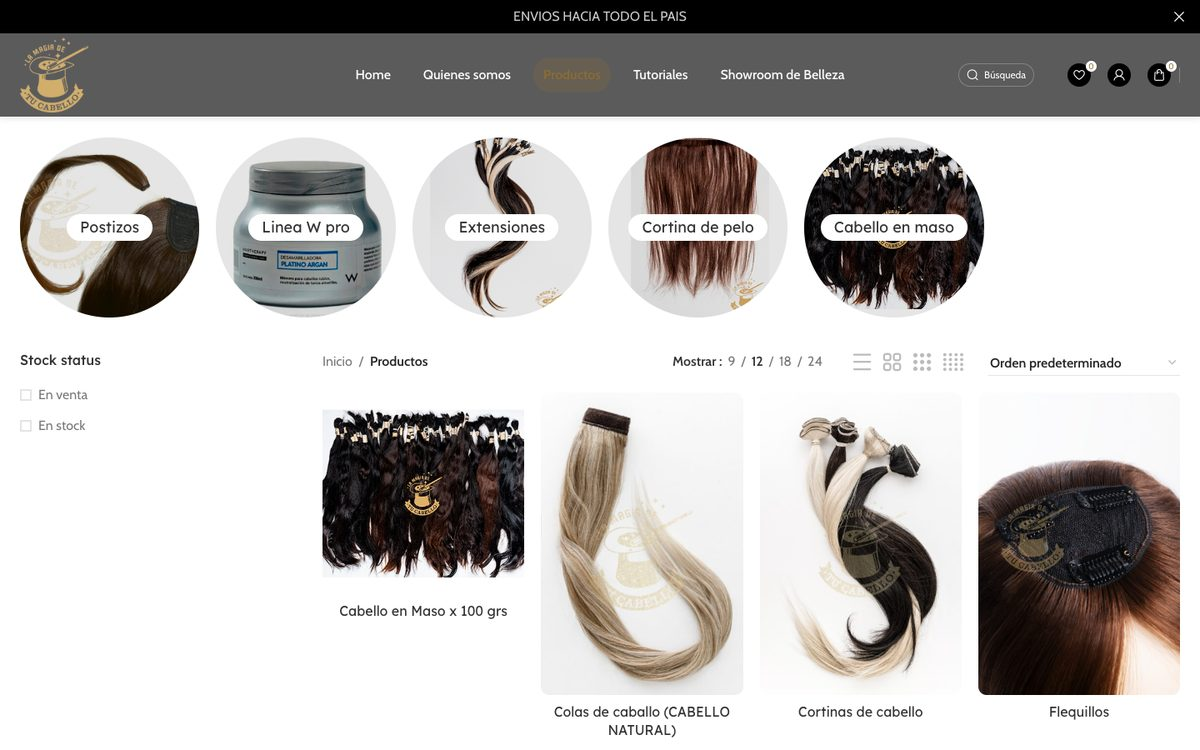
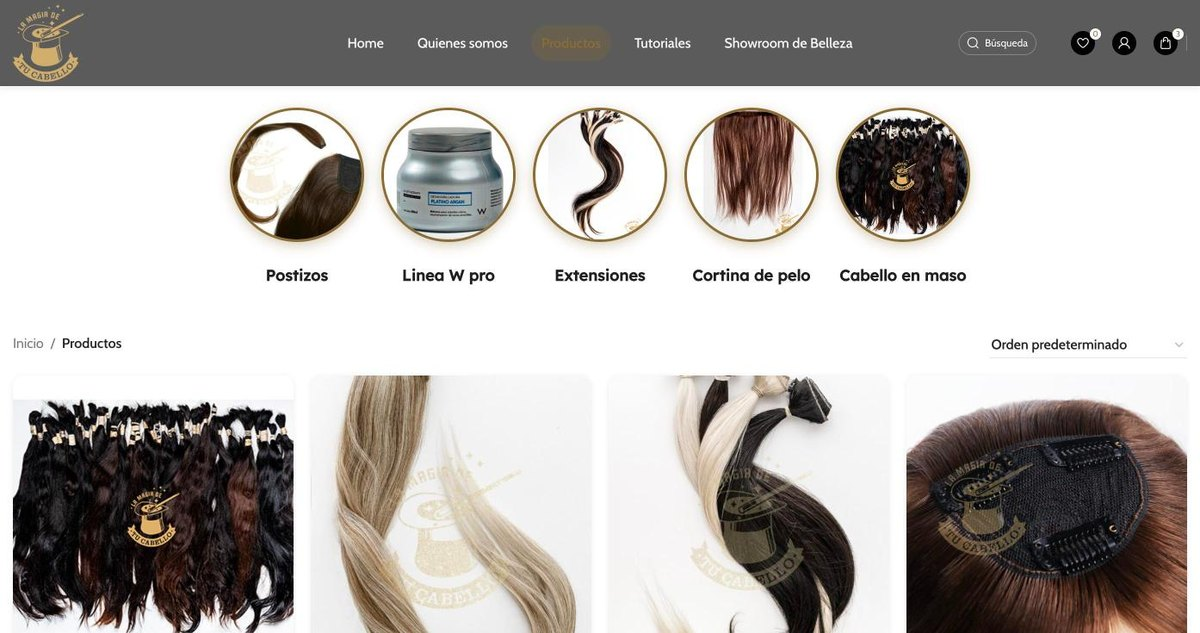
Caso La Magia: captura nueva; footer con Casos y sin subcategorias de tienda; publicar.py con --solo y --ver

diff --git a/caso-la-magia-de-tu-cabello.html b/caso-la-magia-de-tu-cabello.html
@@ -632,7 +632,7 @@
   <span class="sc-caso-mk-url"></span>
   </div>
   <div class="sc-caso-mk-pantalla es-captura">
-  <img src="assets/images/casos/magia-de-tu-cabello-escritorio.jpg" width="1200" height="750" alt="" decoding="async">
+  <img src="assets/images/casos/magia-de-tu-cabello-escritorio.jpg?v=2" width="1200" height="633" alt="" decoding="async">
   </div>
   </div>
   <span class="sc-caso-mk-base" aria-hidden="true"></span>
@@ -987,9 +987,6 @@
                     <ul>
                       <li><a href="servicio-desarrollo-web.html"><span>Desarrollo Web</span></a></li>
                       <li><a href="servicio-tiendas-online.html"><span>Tiendas Online</span></a></li>
-                      <li><a href="servicio-tiendanube.html"><span>Tiendas en Tiendanube</span></a></li>
-                      <li><a href="servicio-shopify.html"><span>Tiendas en Shopify</span></a></li>
-                      <li><a href="servicio-woocommerce.html"><span>Tiendas en WooCommerce</span></a></li>
                       <li><a href="servicio-seo-tecnico.html"><span>SEO Técnico</span></a></li>
                       <li><a href="servicio-campanas-ads.html"><span>Campañas de Ads</span></a></li>
                       <li><a href="servicio-automatizacion-leads.html"><span>Automatización de Leads</span></a></li>
@@ -1001,6 +998,7 @@
                     <ul>
                       <li><a href="sobre-nosotros.html"><span>Sobre Nosotros</span></a></li>
                       <li><a href="preguntas-frecuentes.html"><span>Preguntas Frecuentes</span></a></li>
+                      <li><a href="trabajos.html"><span>Casos</span></a></li>
                       <li><a href="planes.html"><span>Planes</span></a></li>
                       <li><a href="contacto.html"><span>Contacto</span></a></li>
                     </ul>

diff --git a/caso-marker-webflow.html b/caso-marker-webflow.html
@@ -1033,9 +1033,6 @@
                     <ul>
                       <li><a href="servicio-desarrollo-web.html"><span>Desarrollo Web</span></a></li>
                       <li><a href="servicio-tiendas-online.html"><span>Tiendas Online</span></a></li>
-                      <li><a href="servicio-tiendanube.html"><span>Tiendas en Tiendanube</span></a></li>
-                      <li><a href="servicio-shopify.html"><span>Tiendas en Shopify</span></a></li>
-                      <li><a href="servicio-woocommerce.html"><span>Tiendas en WooCommerce</span></a></li>
                       <li><a href="servicio-seo-tecnico.html"><span>SEO Técnico</span></a></li>
                       <li><a href="servicio-campanas-ads.html"><span>Campañas de Ads</span></a></li>
                       <li><a href="servicio-automatizacion-leads.html"><span>Automatización de Leads</span></a></li>
@@ -1047,6 +1044,7 @@
                     <ul>
                       <li><a href="sobre-nosotros.html"><span>Sobre Nosotros</span></a></li>
                       <li><a href="preguntas-frecuentes.html"><span>Preguntas Frecuentes</span></a></li>
+                      <li><a href="trabajos.html"><span>Casos</span></a></li>
                       <li><a href="planes.html"><span>Planes</span></a></li>
                       <li><a href="contacto.html"><span>Contacto</span></a></li>
                     </ul>

diff --git a/caso-reparto-de-consultas.html b/caso-reparto-de-consultas.html
@@ -1016,9 +1016,6 @@
                     <ul>
                       <li><a href="servicio-desarrollo-web.html"><span>Desarrollo Web</span></a></li>
                       <li><a href="servicio-tiendas-online.html"><span>Tiendas Online</span></a></li>
-                      <li><a href="servicio-tiendanube.html"><span>Tiendas en Tiendanube</span></a></li>
-                      <li><a href="servicio-shopify.html"><span>Tiendas en Shopify</span></a></li>
-                      <li><a href="servicio-woocommerce.html"><span>Tiendas en WooCommerce</span></a></li>
                       <li><a href="servicio-seo-tecnico.html"><span>SEO Técnico</span></a></li>
                       <li><a href="servicio-campanas-ads.html"><span>Campañas de Ads</span></a></li>
                       <li><a href="servicio-automatizacion-leads.html"><span>Automatización de Leads</span></a></li>
@@ -1030,6 +1027,7 @@
                     <ul>
                       <li><a href="sobre-nosotros.html"><span>Sobre Nosotros</span></a></li>
                       <li><a href="preguntas-frecuentes.html"><span>Preguntas Frecuentes</span></a></li>
+                      <li><a href="trabajos.html"><span>Casos</span></a></li>
                       <li><a href="planes.html"><span>Planes</span></a></li>
                       <li><a href="contacto.html"><span>Contacto</span></a></li>
                     </ul>

diff --git a/caso-retail-rubro-restringido.html b/caso-retail-rubro-restringido.html
@@ -1038,9 +1038,6 @@
                     <ul>
                       <li><a href="servicio-desarrollo-web.html"><span>Desarrollo Web</span></a></li>
                       <li><a href="servicio-tiendas-online.html"><span>Tiendas Online</span></a></li>
-                      <li><a href="servicio-tiendanube.html"><span>Tiendas en Tiendanube</span></a></li>
-                      <li><a href="servicio-shopify.html"><span>Tiendas en Shopify</span></a></li>
-                      <li><a href="servicio-woocommerce.html"><span>Tiendas en WooCommerce</span></a></li>
                       <li><a href="servicio-seo-tecnico.html"><span>SEO Técnico</span></a></li>
                       <li><a href="servicio-campanas-ads.html"><span>Campañas de Ads</span></a></li>
                       <li><a href="servicio-automatizacion-leads.html"><span>Automatización de Leads</span></a></li>
@@ -1052,6 +1049,7 @@
                     <ul>
                       <li><a href="sobre-nosotros.html"><span>Sobre Nosotros</span></a></li>
                       <li><a href="preguntas-frecuentes.html"><span>Preguntas Frecuentes</span></a></li>
+                      <li><a href="trabajos.html"><span>Casos</span></a></li>
                       <li><a href="planes.html"><span>Planes</span></a></li>
                       <li><a href="contacto.html"><span>Contacto</span></a></li>
                     </ul>

diff --git a/caso-tienda-a-medida.html b/caso-tienda-a-medida.html
@@ -1008,9 +1008,6 @@
                     <ul>
                       <li><a href="servicio-desarrollo-web.html"><span>Desarrollo Web</span></a></li>
                       <li><a href="servicio-tiendas-online.html"><span>Tiendas Online</span></a></li>
-                      <li><a href="servicio-tiendanube.html"><span>Tiendas en Tiendanube</span></a></li>
-                      <li><a href="servicio-shopify.html"><span>Tiendas en Shopify</span></a></li>
-                      <li><a href="servicio-woocommerce.html"><span>Tiendas en WooCommerce</span></a></li>
                       <li><a href="servicio-seo-tecnico.html"><span>SEO Técnico</span></a></li>
                       <li><a href="servicio-campanas-ads.html"><span>Campañas de Ads</span></a></li>
                       <li><a href="servicio-automatizacion-leads.html"><span>Automatización de Leads</span></a></li>
@@ -1022,6 +1019,7 @@
                     <ul>
                       <li><a href="sobre-nosotros.html"><span>Sobre Nosotros</span></a></li>
                       <li><a href="preguntas-frecuentes.html"><span>Preguntas Frecuentes</span></a></li>
+                      <li><a href="trabajos.html"><span>Casos</span></a></li>
                       <li><a href="planes.html"><span>Planes</span></a></li>
                       <li><a href="contacto.html"><span>Contacto</span></a></li>
                     </ul>

diff --git a/servicio-automatizacion-leads.html b/servicio-automatizacion-leads.html
@@ -1100,9 +1100,6 @@
                     <ul>
                       <li><a href="servicio-desarrollo-web.html"><span>Desarrollo Web</span></a></li>
                       <li><a href="servicio-tiendas-online.html"><span>Tiendas Online</span></a></li>
-                      <li><a href="servicio-tiendanube.html"><span>Tiendas en Tiendanube</span></a></li>
-                      <li><a href="servicio-shopify.html"><span>Tiendas en Shopify</span></a></li>
-                      <li><a href="servicio-woocommerce.html"><span>Tiendas en WooCommerce</span></a></li>
                       <li><a href="servicio-seo-tecnico.html"><span>SEO Técnico</span></a></li>
                       <li><a href="servicio-campanas-ads.html"><span>Campañas de Ads</span></a></li>
                       <li><a href="servicio-automatizacion-leads.html"><span>Automatización de Leads</span></a></li>
@@ -1114,6 +1111,7 @@
                     <ul>
                       <li><a href="sobre-nosotros.html"><span>Sobre Nosotros</span></a></li>
                       <li><a href="preguntas-frecuentes.html"><span>Preguntas Frecuentes</span></a></li>
+                      <li><a href="trabajos.html"><span>Casos</span></a></li>
                       <li><a href="planes.html"><span>Planes</span></a></li>
                       <li><a href="contacto.html"><span>Contacto</span></a></li>
                     </ul>

diff --git a/servicio-campanas-ads.html b/servicio-campanas-ads.html
@@ -1068,9 +1068,6 @@
                     <ul>
                       <li><a href="servicio-desarrollo-web.html"><span>Desarrollo Web</span></a></li>
                       <li><a href="servicio-tiendas-online.html"><span>Tiendas Online</span></a></li>
-                      <li><a href="servicio-tiendanube.html"><span>Tiendas en Tiendanube</span></a></li>
-                      <li><a href="servicio-shopify.html"><span>Tiendas en Shopify</span></a></li>
-                      <li><a href="servicio-woocommerce.html"><span>Tiendas en WooCommerce</span></a></li>
                       <li><a href="servicio-seo-tecnico.html"><span>SEO Técnico</span></a></li>
                       <li><a href="servicio-campanas-ads.html"><span>Campañas de Ads</span></a></li>
                       <li><a href="servicio-automatizacion-leads.html"><span>Automatización de Leads</span></a></li>
@@ -1082,6 +1079,7 @@
                     <ul>
                       <li><a href="sobre-nosotros.html"><span>Sobre Nosotros</span></a></li>
                       <li><a href="preguntas-frecuentes.html"><span>Preguntas Frecuentes</span></a></li>
+                      <li><a href="trabajos.html"><span>Casos</span></a></li>
                       <li><a href="planes.html"><span>Planes</span></a></li>
                       <li><a href="contacto.html"><span>Contacto</span></a></li>
                     </ul>

diff --git a/servicio-cierre-de-ventas.html b/servicio-cierre-de-ventas.html
@@ -1085,9 +1085,6 @@
                     <ul>
                       <li><a href="servicio-desarrollo-web.html"><span>Desarrollo Web</span></a></li>
                       <li><a href="servicio-tiendas-online.html"><span>Tiendas Online</span></a></li>
-                      <li><a href="servicio-tiendanube.html"><span>Tiendas en Tiendanube</span></a></li>
-                      <li><a href="servicio-shopify.html"><span>Tiendas en Shopify</span></a></li>
-                      <li><a href="servicio-woocommerce.html"><span>Tiendas en WooCommerce</span></a></li>
                       <li><a href="servicio-seo-tecnico.html"><span>SEO Técnico</span></a></li>
                       <li><a href="servicio-campanas-ads.html"><span>Campañas de Ads</span></a></li>
                       <li><a href="servicio-automatizacion-leads.html"><span>Automatización de Leads</span></a></li>
@@ -1099,6 +1096,7 @@
                     <ul>
                       <li><a href="sobre-nosotros.html"><span>Sobre Nosotros</span></a></li>
                       <li><a href="preguntas-frecuentes.html"><span>Preguntas Frecuentes</span></a></li>
+                      <li><a href="trabajos.html"><span>Casos</span></a></li>
                       <li><a href="planes.html"><span>Planes</span></a></li>
                       <li><a href="contacto.html"><span>Contacto</span></a></li>
                     </ul>

diff --git a/servicio-desarrollo-web.html b/servicio-desarrollo-web.html
@@ -1103,9 +1103,6 @@
                     <ul>
                       <li><a href="servicio-desarrollo-web.html"><span>Desarrollo Web</span></a></li>
                       <li><a href="servicio-tiendas-online.html"><span>Tiendas Online</span></a></li>
-                      <li><a href="servicio-tiendanube.html"><span>Tiendas en Tiendanube</span></a></li>
-                      <li><a href="servicio-shopify.html"><span>Tiendas en Shopify</span></a></li>
-                      <li><a href="servicio-woocommerce.html"><span>Tiendas en WooCommerce</span></a></li>
                       <li><a href="servicio-seo-tecnico.html"><span>SEO Técnico</span></a></li>
                       <li><a href="servicio-campanas-ads.html"><span>Campañas de Ads</span></a></li>
                       <li><a href="servicio-automatizacion-leads.html"><span>Automatización de Leads</span></a></li>
@@ -1117,6 +1114,7 @@
                     <ul>
                       <li><a href="sobre-nosotros.html"><span>Sobre Nosotros</span></a></li>
                       <li><a href="preguntas-frecuentes.html"><span>Preguntas Frecuentes</span></a></li>
+                      <li><a href="trabajos.html"><span>Casos</span></a></li>
                       <li><a href="planes.html"><span>Planes</span></a></li>
                       <li><a href="contacto.html"><span>Contacto</span></a></li>
                     </ul>

diff --git a/servicio-seo-tecnico.html b/servicio-seo-tecnico.html
@@ -1080,9 +1080,6 @@
                     <ul>
                       <li><a href="servicio-desarrollo-web.html"><span>Desarrollo Web</span></a></li>
                       <li><a href="servicio-tiendas-online.html"><span>Tiendas Online</span></a></li>
-                      <li><a href="servicio-tiendanube.html"><span>Tiendas en Tiendanube</span></a></li>
-                      <li><a href="servicio-shopify.html"><span>Tiendas en Shopify</span></a></li>
-                      <li><a href="servicio-woocommerce.html"><span>Tiendas en WooCommerce</span></a></li>
                       <li><a href="servicio-seo-tecnico.html"><span>SEO Técnico</span></a></li>
                       <li><a href="servicio-campanas-ads.html"><span>Campañas de Ads</span></a></li>
                       <li><a href="servicio-automatizacion-leads.html"><span>Automatización de Leads</span></a></li>
@@ -1094,6 +1091,7 @@
                     <ul>
                       <li><a href="sobre-nosotros.html"><span>Sobre Nosotros</span></a></li>
                       <li><a href="preguntas-frecuentes.html"><span>Preguntas Frecuentes</span></a></li>
+                      <li><a href="trabajos.html"><span>Casos</span></a></li>
                       <li><a href="planes.html"><span>Planes</span></a></li>
                       <li><a href="contacto.html"><span>Contacto</span></a></li>
                     </ul>

diff --git a/servicio-tiendas-online.html b/servicio-tiendas-online.html
@@ -1069,9 +1069,6 @@
                     <ul>
                       <li><a href="servicio-desarrollo-web.html"><span>Desarrollo Web</span></a></li>
                       <li><a href="servicio-tiendas-online.html"><span>Tiendas Online</span></a></li>
-                      <li><a href="servicio-tiendanube.html"><span>Tiendas en Tiendanube</span></a></li>
-                      <li><a href="servicio-shopify.html"><span>Tiendas en Shopify</span></a></li>
-                      <li><a href="servicio-woocommerce.html"><span>Tiendas en WooCommerce</span></a></li>
                       <li><a href="servicio-seo-tecnico.html"><span>SEO Técnico</span></a></li>
                       <li><a href="servicio-campanas-ads.html"><span>Campañas de Ads</span></a></li>
                       <li><a href="servicio-automatizacion-leads.html"><span>Automatización de Leads</span></a></li>
@@ -1083,6 +1080,7 @@
                     <ul>
                       <li><a href="sobre-nosotros.html"><span>Sobre Nosotros</span></a></li>
                       <li><a href="preguntas-frecuentes.html"><span>Preguntas Frecuentes</span></a></li>
+                      <li><a href="trabajos.html"><span>Casos</span></a></li>
                       <li><a href="planes.html"><span>Planes</span></a></li>
                       <li><a href="contacto.html"><span>Contacto</span></a></li>
                     </ul>

diff --git a/caso-plataforma-de-cursos.html b/caso-plataforma-de-cursos.html
@@ -992,9 +992,6 @@
                     <ul>
                       <li><a href="servicio-desarrollo-web.html"><span>Desarrollo Web</span></a></li>
                       <li><a href="servicio-tiendas-online.html"><span>Tiendas Online</span></a></li>
-                      <li><a href="servicio-tiendanube.html"><span>Tiendas en Tiendanube</span></a></li>
-                      <li><a href="servicio-shopify.html"><span>Tiendas en Shopify</span></a></li>
-                      <li><a href="servicio-woocommerce.html"><span>Tiendas en WooCommerce</span></a></li>
                       <li><a href="servicio-seo-tecnico.html"><span>SEO Técnico</span></a></li>
                       <li><a href="servicio-campanas-ads.html"><span>Campañas de Ads</span></a></li>
                       <li><a href="servicio-automatizacion-leads.html"><span>Automatización de Leads</span></a></li>
@@ -1006,6 +1003,7 @@
                     <ul>
                       <li><a href="sobre-nosotros.html"><span>Sobre Nosotros</span></a></li>
                       <li><a href="preguntas-frecuentes.html"><span>Preguntas Frecuentes</span></a></li>
+                      <li><a href="trabajos.html"><span>Casos</span></a></li>
                       <li><a href="planes.html"><span>Planes</span></a></li>
                       <li><a href="contacto.html"><span>Contacto</span></a></li>
                     </ul>
